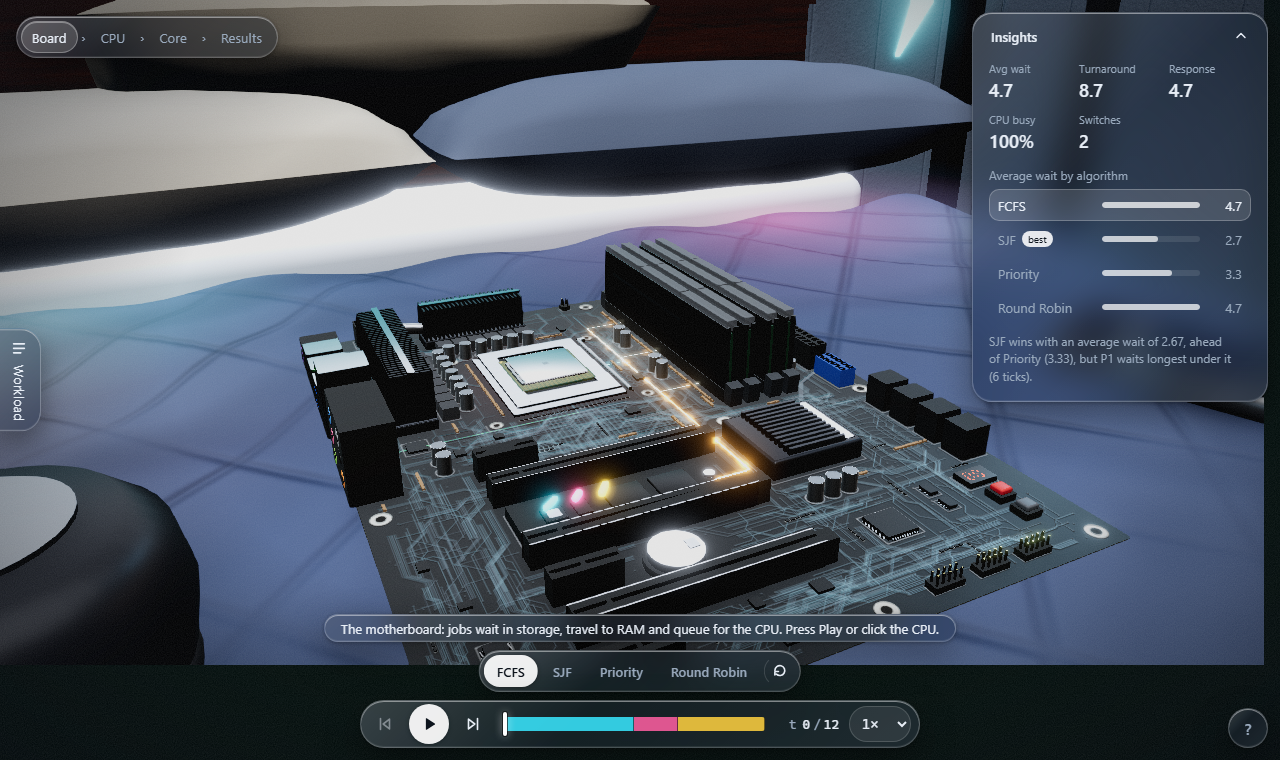
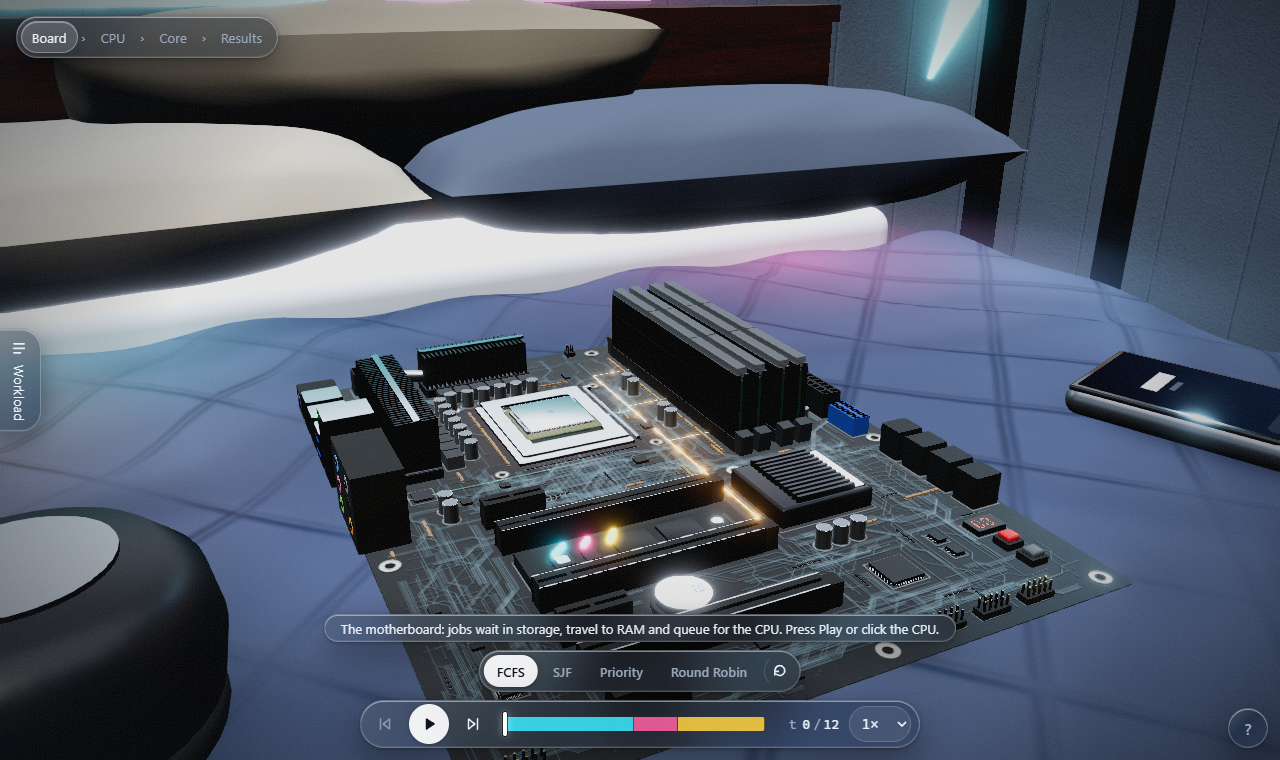
docs: add zoomed screenshots and tidy README
Adds board, CPU, core and results screenshots, removes the Controls section
and merges the repository layout into the build section.

diff --git a/README.md b/README.md
@@ -14,12 +14,11 @@
 </p>
 
 <p align="center">
-  <a href="#screenshot">Screenshot</a> &bull;
+  <a href="#screenshots">Screenshots</a> &bull;
   <a href="#what-it-shows">What it shows</a> &bull;
   <a href="#algorithms">Algorithms</a> &bull;
-  <a href="#controls">Controls</a> &bull;
   <a href="#getting-started">Quickstart</a> &bull;
-  <a href="#how-it-is-built">Architecture</a> &bull;
+  <a href="#how-it-is-built">Architecture and layout</a> &bull;
   <a href="#limitations">Limitations</a>
 </p>
 
@@ -38,13 +37,23 @@ teenager's bedroom. The camera stays around the board.
 
 ---
 
-## Screenshot
+## Screenshots
 
 <p align="center">
-  <img src="assets/board.png" alt="The 3D motherboard on the bed with the Insights card and playback bar" width="900" />
+  <img src="assets/board.png" alt="The 3D motherboard on the bed" width="900" />
 </p>
 
-<p align="center"><em>The board at rest, with the Insights card comparing the four algorithms and the playback bar underneath.</em></p>
+<p align="center"><em>The whole board at rest on the bed, with the playback bar underneath.</em></p>
+
+<table>
+  <tr>
+    <td align="center"><img src="assets/cpu.png" alt="CPU view: the socket, RAM modules and traces" width="440" /><br><em>CPU: the scheduler picks the next job from the RAM queue.</em></td>
+    <td align="center"><img src="assets/core.png" alt="Core view: one core running a job with its time-slice ring" width="440" /><br><em>Core: the running job, its remaining burst and the time-slice ring.</em></td>
+  </tr>
+  <tr>
+    <td align="center" colspan="2"><img src="assets/results.png" alt="Results view: four algorithm panels with the winner highlighted" width="900" /><br><em>Results: all four algorithms ran the same jobs, and the lowest average wait wins.</em></td>
+  </tr>
+</table>
 
 ## What it shows
 
@@ -70,27 +79,6 @@ teenager's bedroom. The camera stays around the board.
 
 The engine is a pure TypeScript module with no UI dependencies, so every result can be checked with the
 unit tests in `src/engine`.
-
----
-
-## Controls
-
-| Input | Action |
-| :--- | :--- |
-| **Space** | Play or pause |
-| **← →** | Step to the previous or next event |
-| **1 – 4** | FCFS, SJF, Priority, Round Robin |
-| **[  ]** | Slower or faster playback |
-| **D** | Open or close the workload drawer |
-| **F** | Follow the running process |
-| **I** | Show or hide the insights card |
-| **R** | Reset the camera view |
-| **Esc** | Zoom out one level |
-| **?** | Show all shortcuts |
-| **Drag · wheel · right-drag** | Orbit, zoom and pan the board |
-
-The workload drawer edits arrival time, burst time, priority and quantum for each process, loads presets,
-generates random workloads, and copies a share link that restores the same run.
 
 ---
 
@@ -130,20 +118,13 @@ Debug flags for the URL: `?fx=0` turns post-processing off, `?no=bloom,ao` drops
 
 The 3D scene uses no 3D model files. The board, chips and furniture are generated in code. The bedroom
 uses six CC0 photographic textures from [Poly Haven](https://polyhaven.com), kept in `public/assets/tex/`.
-
 Quality adapts to the device: the scene picks one of three effect tiers after warm-up, from the measured
 frame time, and never flips back and forth during playback.
 
----
-
-## Repository layout
-
 ```text
 CPU-scheduling-visualiser/
-├── assets/                  # README banner and screenshot
-├── docs/
-│   ├── BRIEF.md             # Original requirements
-│   └── REDESIGN-MODULES.md  # Module map for the frontend redesign
+├── assets/                  # README banner and screenshots
+├── docs/                    # Original brief and redesign module map
 ├── public/assets/tex/       # CC0 PBR textures for the bedroom
 ├── src/
 │   ├── engine/              # Scheduling algorithms, validation, comparison
@@ -156,8 +137,6 @@ CPU-scheduling-visualiser/
 ├── PLAN.md                  # Implementation plan and work packages
 └── package.json
 ```
-
----
 
 ## Limitations
 
